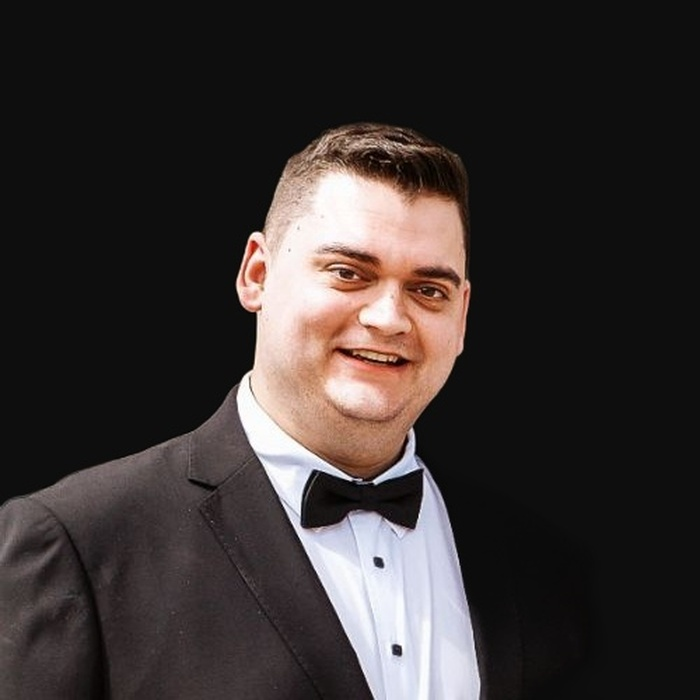
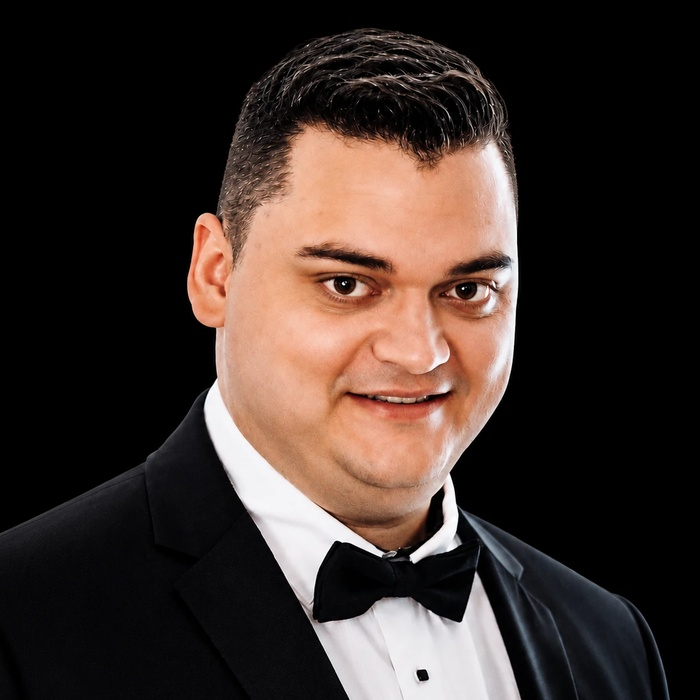
Swap Brandon's photo for a cleaner already-processed version
User supplied a better-quality crop directly (cleaner edges than the
rembg cutout, already on black). Cropped to a centered square and
resized to 700x700, replacing brandon-le-roux.jpg.

diff --git a/MEMORY.md b/MEMORY.md
@@ -6,6 +6,22 @@ time you finish a unit of work here.
 
 ---
 
+## 2026-08-04 (Brandon's photo swapped for a better-quality already-processed version) — user supplied a cleaner 1402x1122 crop directly
+
+Immediately after the tight-crop/black-background pass, user pasted a
+better version of Brandon's headshot — same pose/tux, but with cleaner
+edge quality than the `rembg` cutout produced (no haloing around hair,
+crisper detail generally), already on a black background. Extracted it
+from the transcript the same way as before (recursive scan of the
+session JSONL for the newest `type: "image"` content block, since it
+was pasted directly rather than `@`-referenced). Source was 1402x1122
+(landscape, WEBP) — cropped to a centered 1122x1122 square around the
+face (`crop((270, 0, 1392, 1122))`) rather than using the frame's full
+width, since the face sat right-of-center in the original, then
+resized to the standard 700x700. Replaced `images/brandon-le-roux.jpg`
+only — Jessica's photo from the previous entry is untouched. Verified
+via live-page screenshot.
+
 ## 2026-08-04 (leadership photos replaced with real higher-res sources, tight crop, black background) — resolves the pending TODO from the sharpening pass
 
 User followed up on the earlier sharpening entry by supplying the

diff --git a/TODO.md b/TODO.md
@@ -3,6 +3,12 @@
 Living backlog. Check items off (or move to MEMORY.md as a dated entry) as they're
 done — don't just accumulate; keep this reflecting real, current state.
 
+## Fixed 2026-08-04 (Brandon's photo swapped for a better-quality version)
+
+- [x] Replaced `brandon-le-roux.jpg` again with a cleaner
+      already-black-background version the user supplied directly
+      (better edge quality than the `rembg` cutout). See MEMORY.md.
+
 ## Fixed 2026-08-04 (leadership photos replaced with real higher-res sources)
 
 - [x] User supplied the actual higher-quality wedding photos requested
